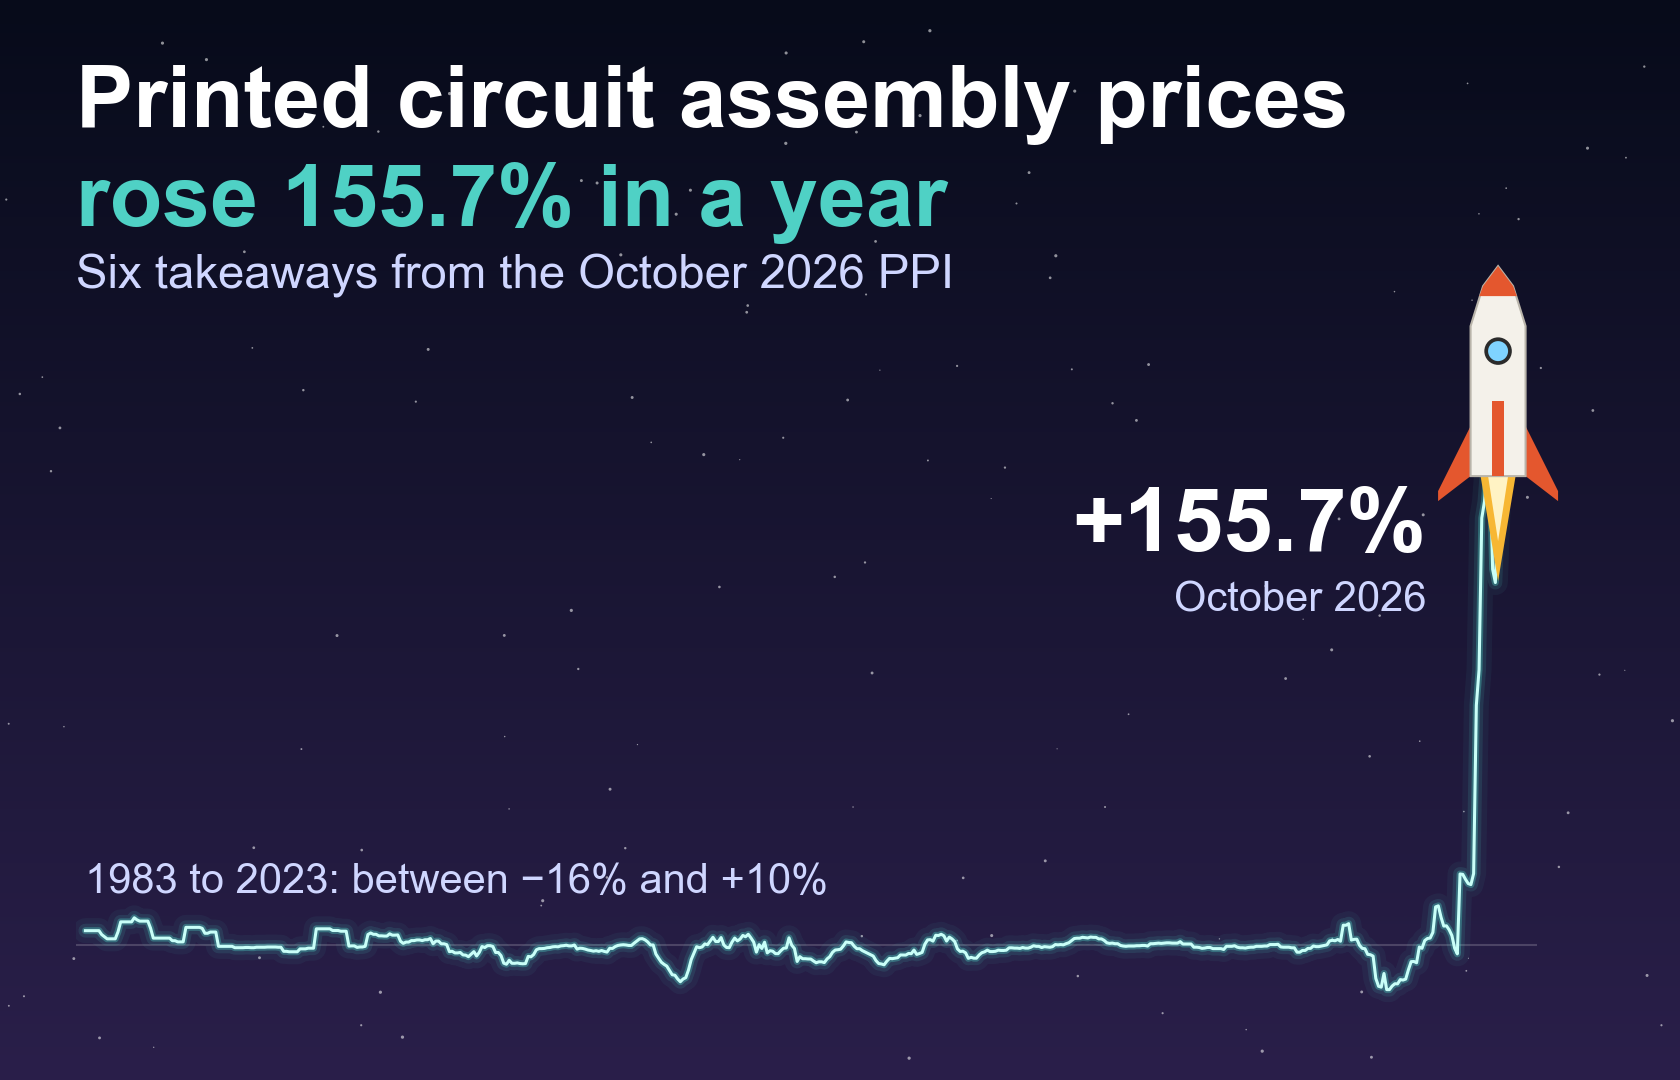
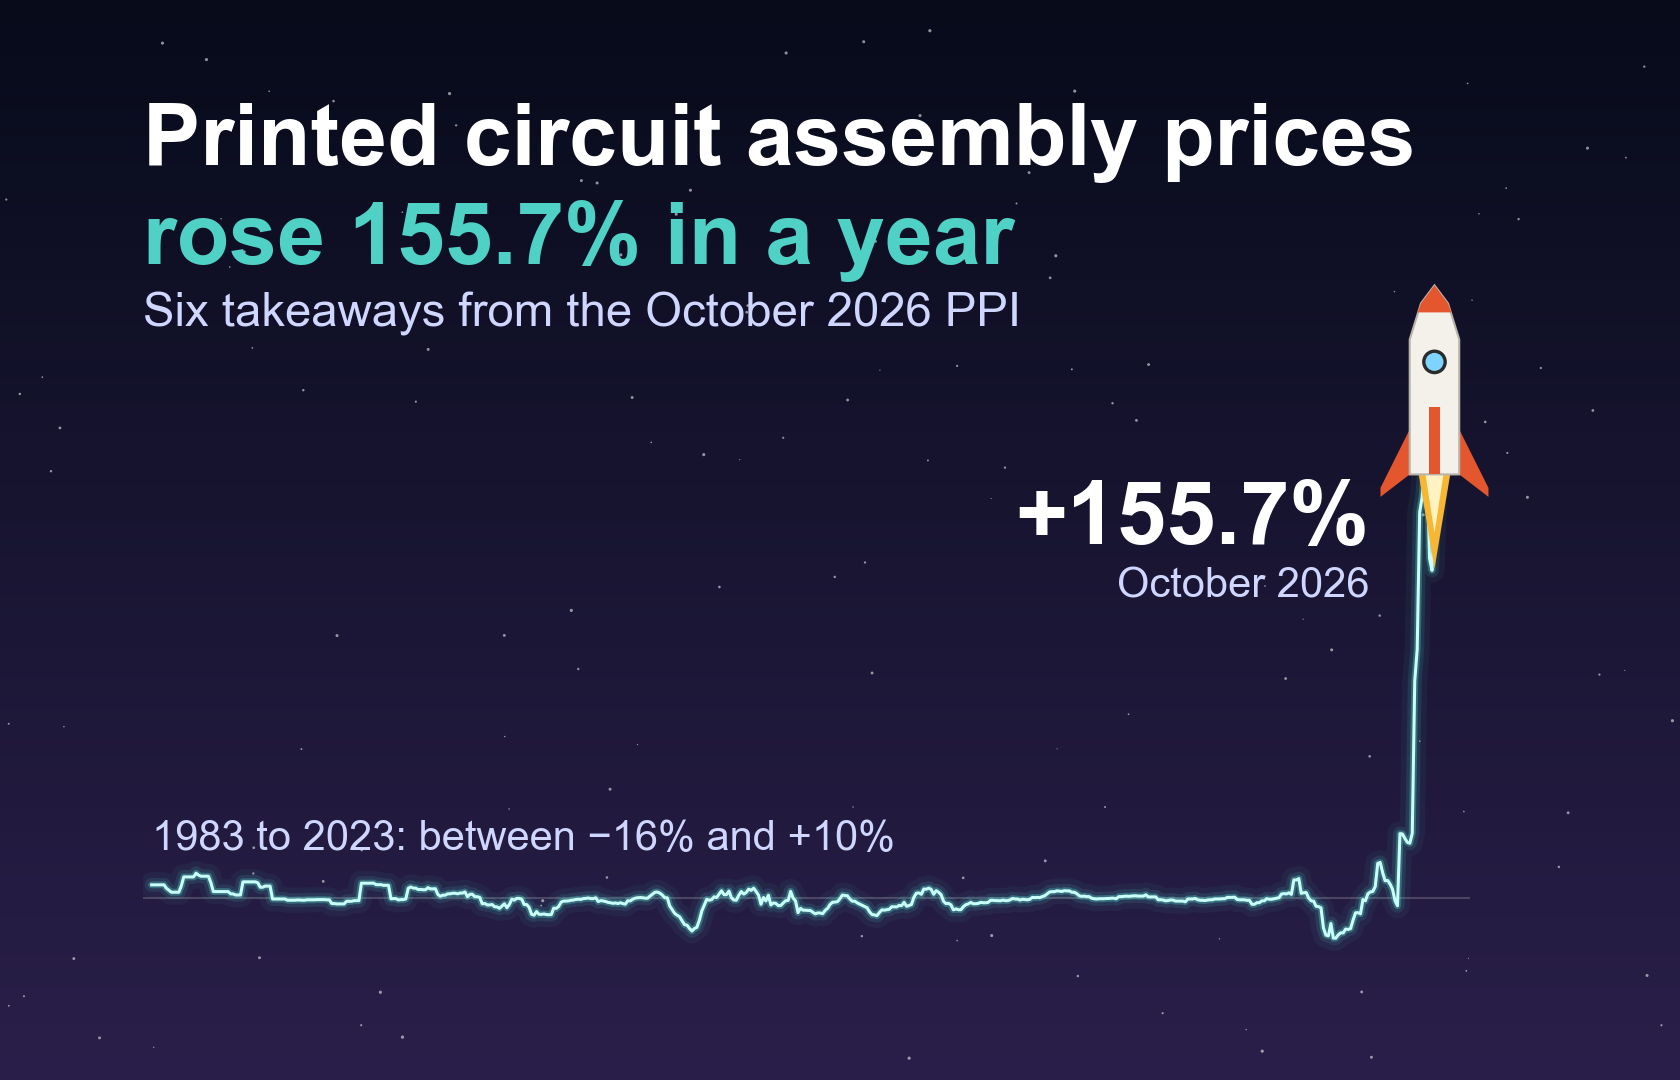
ppi-october-2026: more padding on the hero

Changed region(s): [[0.031, 0.2444, 0.9286, 0.9167], [0.031, 0.0611, 0.8357, 0.3056]]

diff --git a/scripts/hero_october.py b/scripts/hero_october.py
@@ -79,7 +79,7 @@ def main():
     sx, sy = rng.random(140), rng.random(140)
     bg.scatter(sx, sy, s=rng.random(140) * 5 + 0.5, color="white", alpha=0.55, lw=0, zorder=1)
 
-    ax = fig.add_axes([0.045, 0.06, 0.87, 0.62])
+    ax = fig.add_axes([0.085, 0.11, 0.79, 0.56])
     ax.set_facecolor("none")
     x0, x1 = xs[0] - 0.3, xs[-1] + 1.2
     ax.set_xlim(x0, x1); ax.set_ylim(YLO, YHI)
@@ -91,7 +91,7 @@ def main():
         ax.plot(xs, ys, color=TRAIL, lw=lw, alpha=a, zorder=3, solid_joinstyle="round", solid_capstyle="round")
     ax.plot(xs, ys, color="#c9fff8", lw=2.2, zorder=4, solid_joinstyle="round")
 
-    rocket(ax, xs[-1], ys[-1], height_px=250)
+    rocket(ax, xs[-1], ys[-1], height_px=225)
 
     ax.text(xs[-1] - 2.2, ys[-1] - 6, f"{ys[-1]:+.1f}%", ha="right", va="center", fontsize=64,
             fontweight="bold", color="white", zorder=12)
@@ -100,9 +100,9 @@ def main():
     ax.text(xs[0], 16, f"{months[0][:4]} to 2023: between −{abs(before.min()):.0f}% and {before.max():+.0f}%",
             ha="left", va="bottom", fontsize=30, color="#cfd6ff", zorder=12)
 
-    fig.text(0.045, 0.94, "Printed circuit assembly prices", fontsize=62, color="white", fontweight="bold", va="top")
-    fig.text(0.045, 0.85, f"rose {ys[-1]:.1f}% in a year", fontsize=62, color=TRAIL, fontweight="bold", va="top")
-    fig.text(0.045, 0.765, f"Six takeaways from the {TARGET_LABEL} PPI", fontsize=34, color="#cfd6ff", va="top")
+    fig.text(0.085, 0.905, "Printed circuit assembly prices", fontsize=62, color="white", fontweight="bold", va="top")
+    fig.text(0.085, 0.815, f"rose {ys[-1]:.1f}% in a year", fontsize=62, color=TRAIL, fontweight="bold", va="top")
+    fig.text(0.085, 0.73, f"Six takeaways from the {TARGET_LABEL} PPI", fontsize=34, color="#cfd6ff", va="top")
 
     OUT.mkdir(parents=True, exist_ok=True)
     out = OUT / f"{SLUG}-hero-1680x1080.png"

diff --git a/STATUS.md b/STATUS.md
@@ -112,3 +112,4 @@ None.
 - 2026-11-16 2c confirmed by Eric. Next: 2d.
 - 2026-11-16 2d: Eric chose printed circuit assemblies over repeating last month's trucking road; rocket hero (scripts/hero_october.py), WPU117861 12-month change June 1983-October 2026, no axis or small text; alt 420 characters; hero check ok.
 - 2026-11-16 2d confirmed by Eric. Next: 2e.
+- 2026-11-16 Hero padding increased at Eric's request: content about 4% further from each edge (title and line start ~145px from left, rocket ~190px from right, title ~100px from top).
